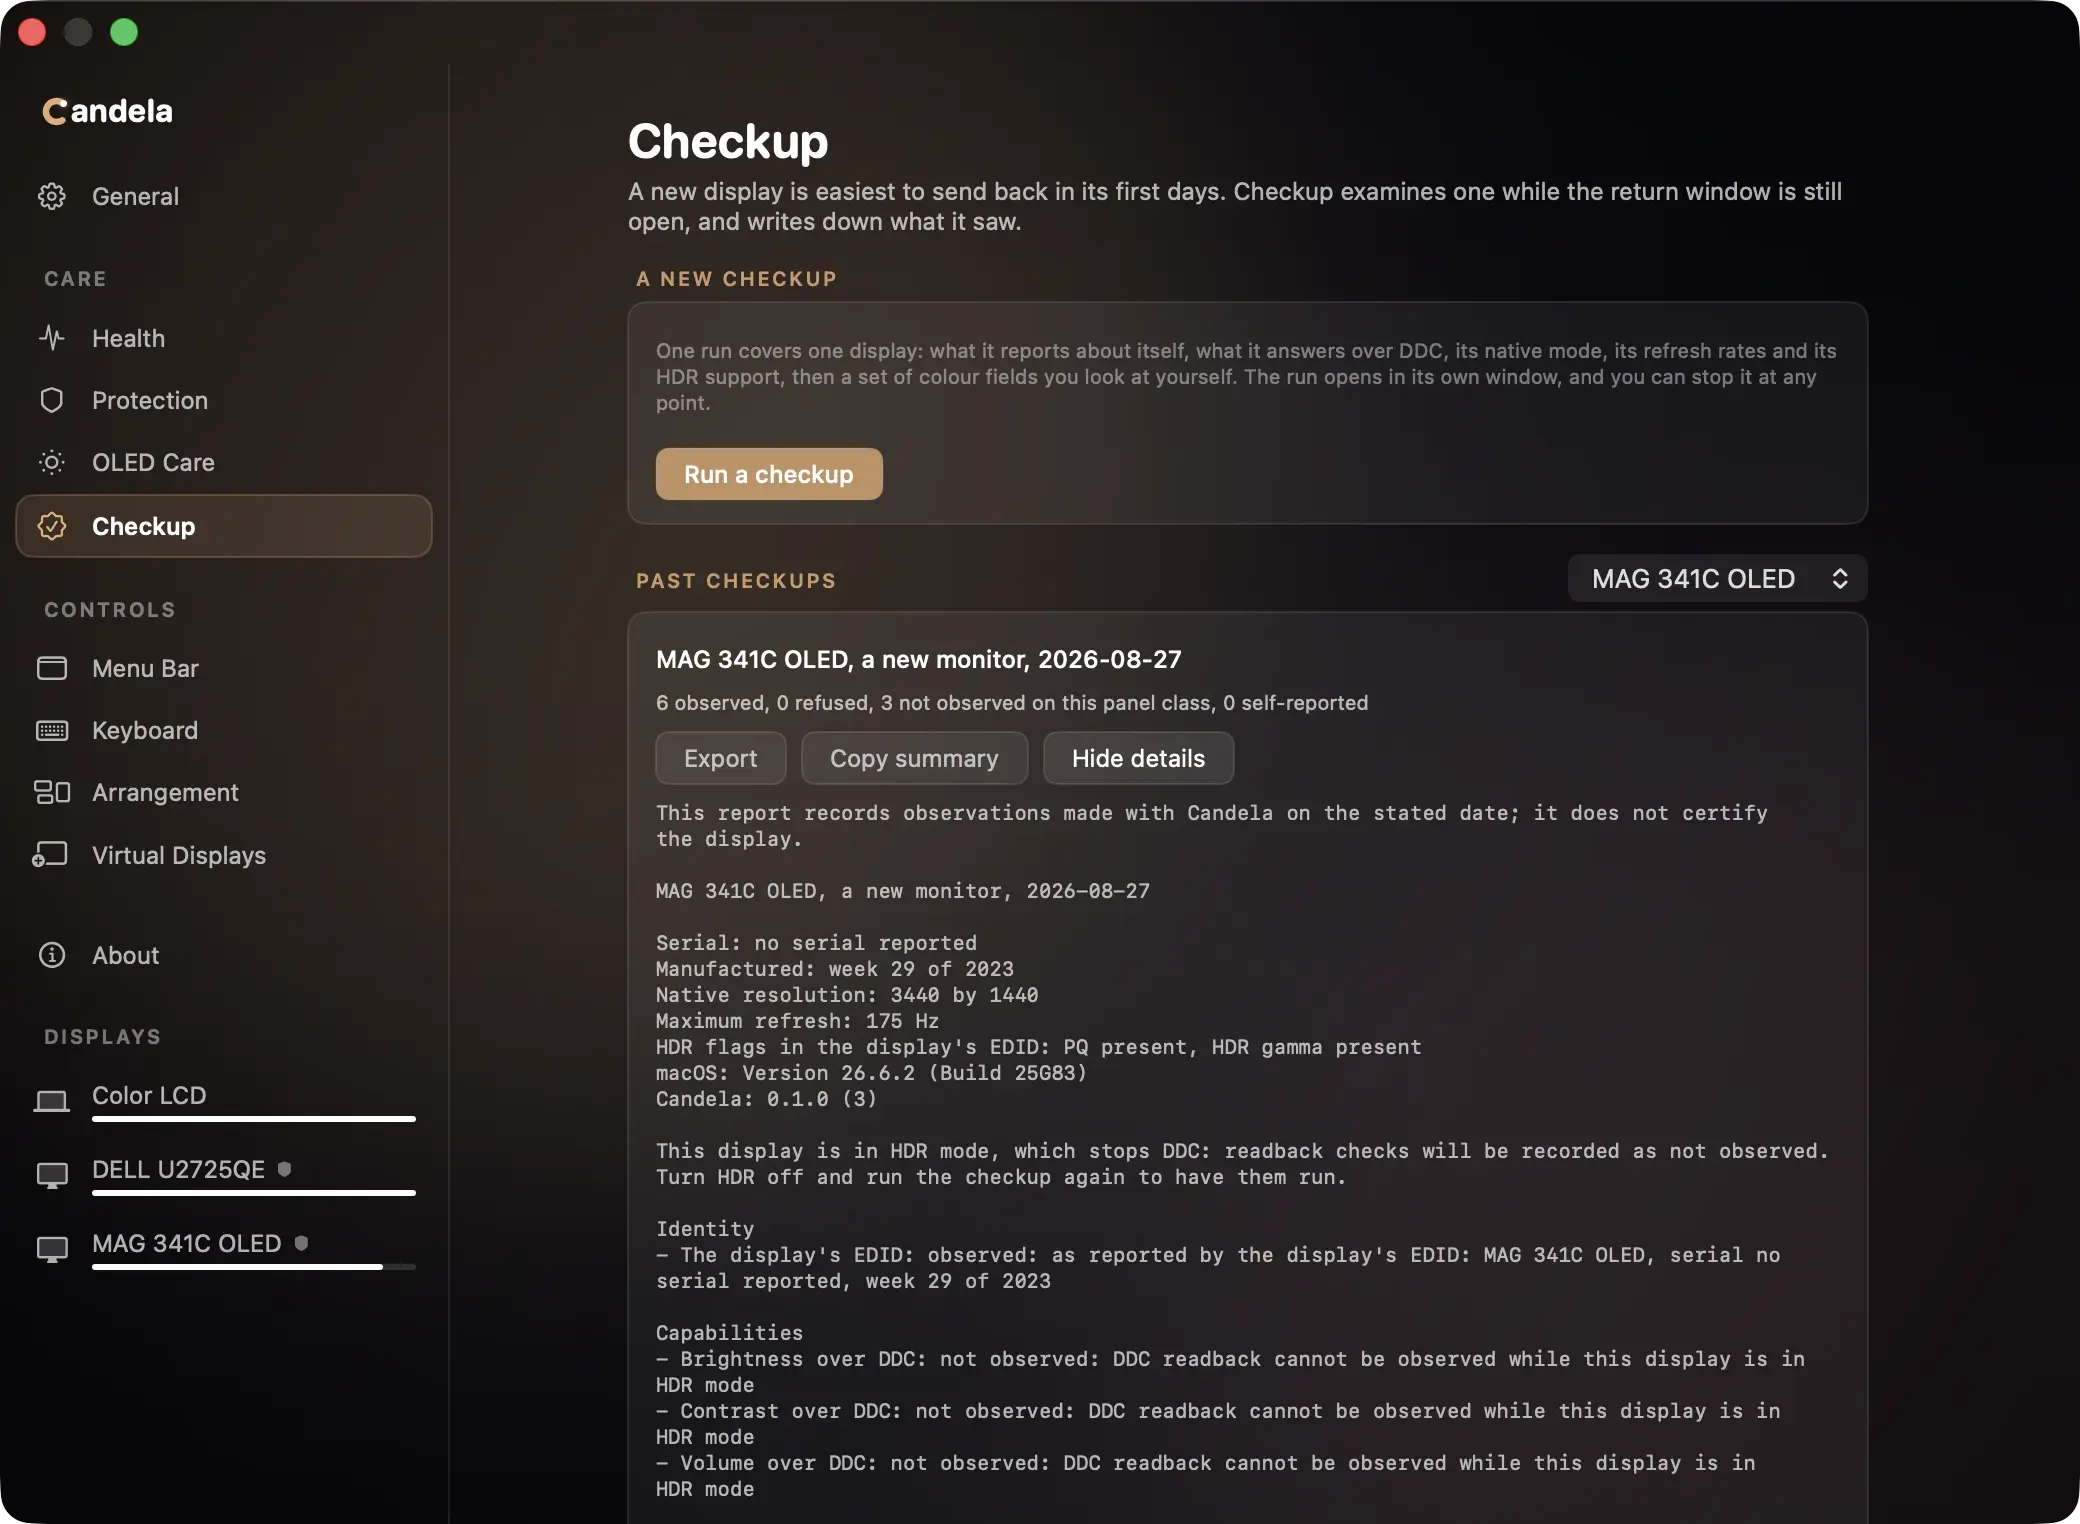
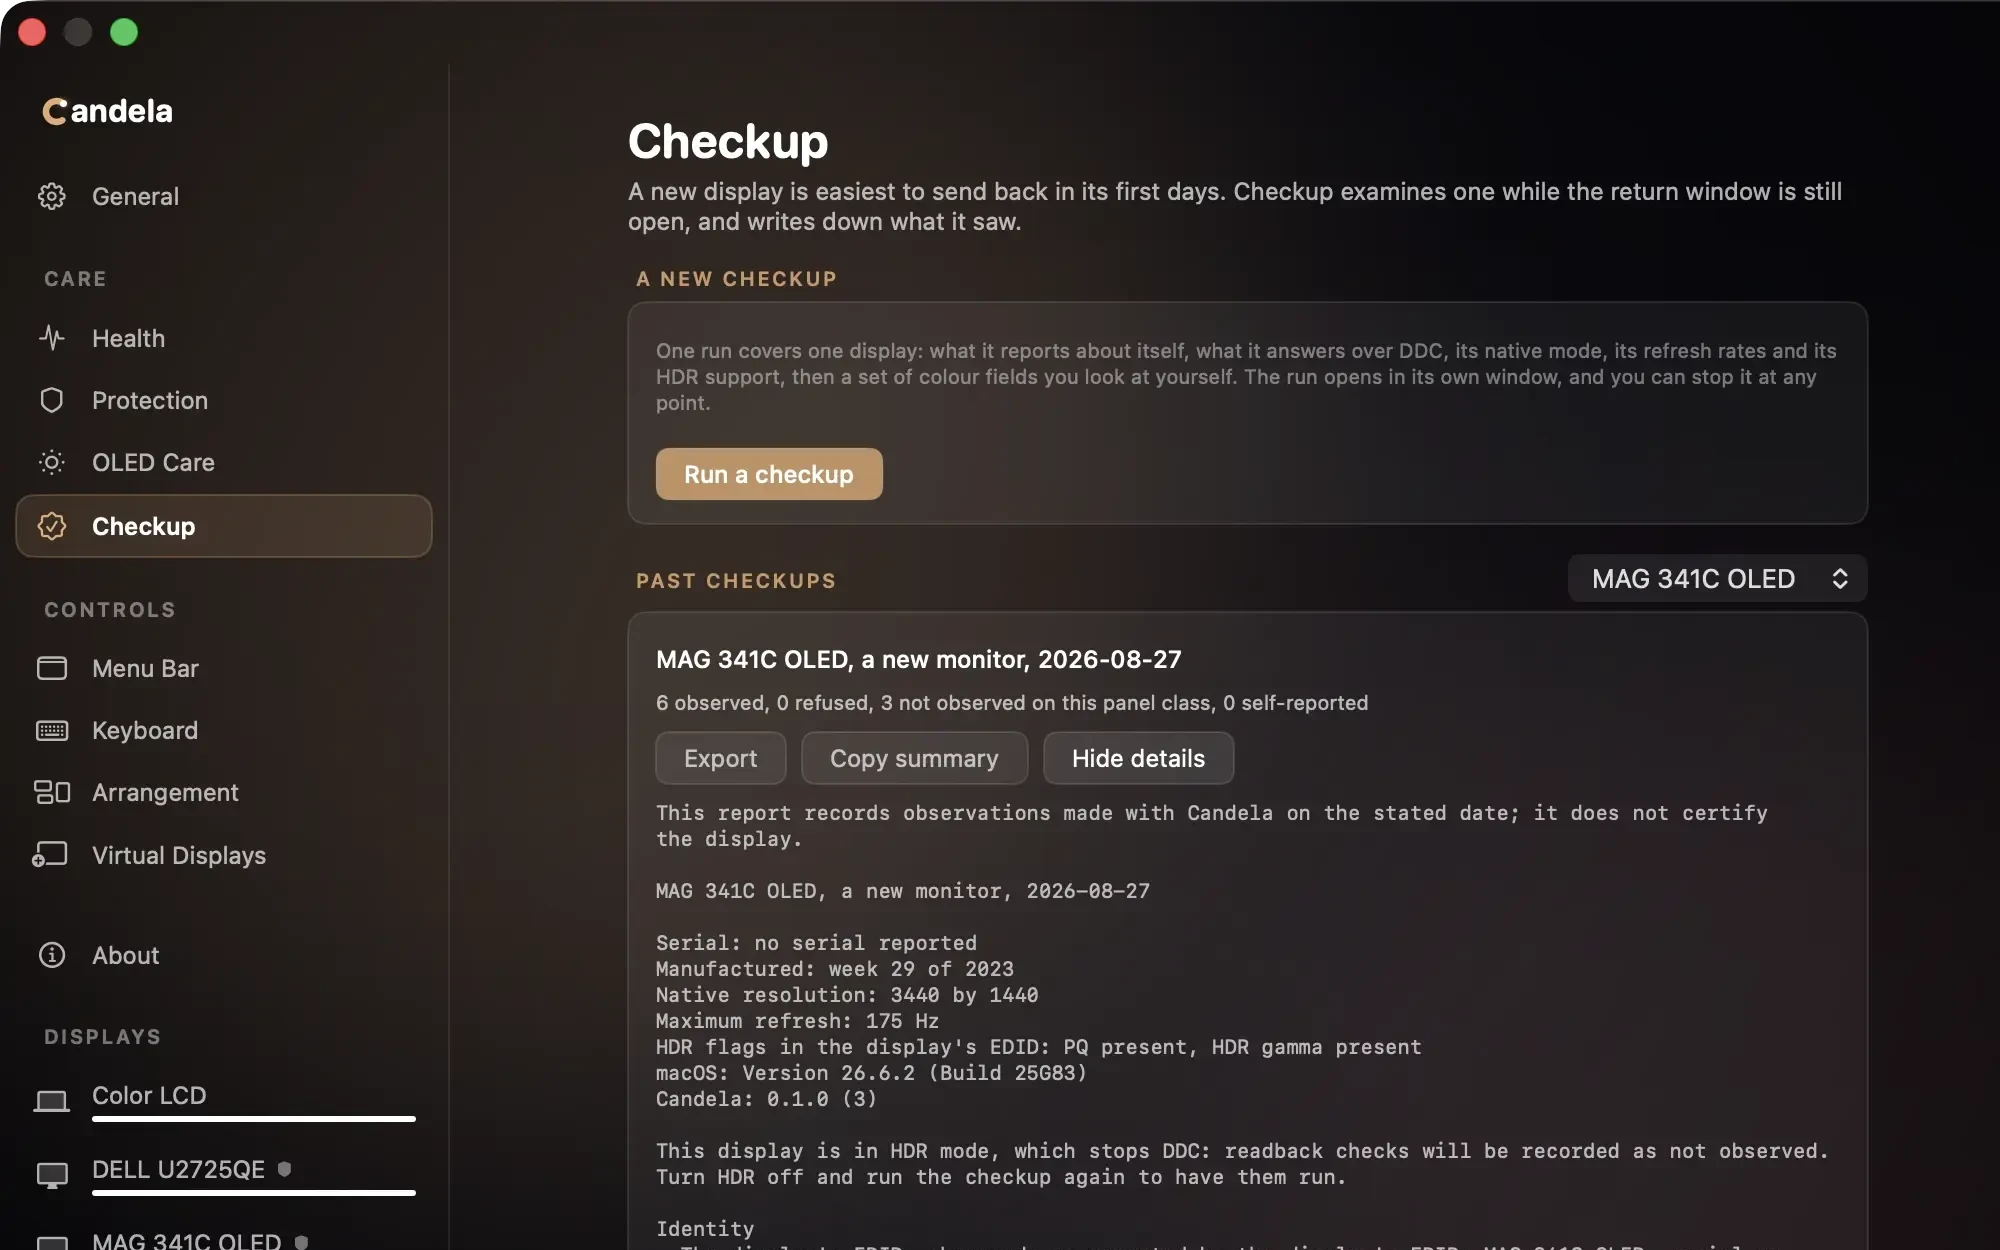
docs: a README that shows the app (#3)
App icon, name and tagline; Download, Homebrew and Visit buttons drawn for
the repo; a four-surface hero over a macOS desktop; the four pillars in a
grid with 16:10 loops and captures and the text lined up beneath; the setup
flow on its own strip; shorter Install, Requirements, private-API and
Credits sections. THIRD-PARTY-LICENSES loses its DDC.swift provenance note.

diff --git a/README.md b/README.md
@@ -11,23 +11,22 @@
 </p>
 
 <p align="center">
-  <a href="https://github.com/Rydersel/Candela/releases/latest"><img src="https://img.shields.io/github/v/release/Rydersel/Candela?label=release&color=1f9e89" alt="Latest release"></a>
-  <img src="https://img.shields.io/badge/macOS-14%2B-111" alt="macOS 14 or later">
-  <img src="https://img.shields.io/badge/Apple%20silicon-arm64-111" alt="Apple silicon">
-  <img src="https://img.shields.io/badge/signed%20%26%20notarized-Developer%20ID-111" alt="Signed and notarized">
-  <a href="LICENSE"><img src="https://img.shields.io/github/license/Rydersel/Candela?color=1f9e89" alt="MIT license"></a>
+  <a href="https://github.com/Rydersel/Candela/releases/latest"><img src=".github/assets/download-macos.png" height="45" alt="Download Candela for macOS"></a>
+  &nbsp;
+  <a href="#install"><img src=".github/assets/install-homebrew.png" height="45" alt="Install with Homebrew"></a>
+  &nbsp;
+  <a href="https://candela.fyi"><img src=".github/assets/visit-site.png" height="45" alt="Visit candela.fyi"></a>
 </p>
 
 <p align="center">
-  <a href="https://github.com/Rydersel/Candela/releases/latest"><b>Download for macOS</b></a>
-  &nbsp;&middot;&nbsp;
-  <code>brew install --cask rydersel/tap/candela</code>
-  &nbsp;&middot;&nbsp;
-  <a href="https://candela.fyi">candela.fyi</a>
+  <img src="https://img.shields.io/badge/macOS-14%2B-0a0a0c" alt="macOS 14 or later">
+  <img src="https://img.shields.io/badge/Apple%20silicon-arm64-0a0a0c" alt="Apple silicon">
+  <img src="https://img.shields.io/badge/signed%20%26%20notarized-Developer%20ID-0a0a0c" alt="Signed and notarized">
+  <a href="LICENSE"><img src="https://img.shields.io/badge/license-MIT-e8a13a" alt="MIT license"></a>
 </p>
 
 <p align="center">
-  <img src=".github/assets/tour.gif" width="880" alt="A tour of Candela's settings window">
+  <img src=".github/assets/hero.webp" width="880" alt="Candela: a display's page, the Health pane, the heat map, and the menu-bar controls over a macOS desktop">
 </p>
 
 Other display apps adjust settings in the moment. Candela stewards your display over its lifetime, and does the settings too. Your monitor is probably the most expensive thing on your desk that nothing takes care of: macOS forgets its settings, offers no brightness slider for it, and has no idea how many hours its panel has been lit. Candela is a menu-bar app that keeps those records, protects the panel from wear, and fills in the controls.
@@ -39,27 +38,35 @@ Other display apps adjust settings in the moment. Candela stewards your display 
     <td width="50%" valign="top">
       <img src=".github/assets/health.gif" alt="The Health pane and its exposure heat map">
       <h3>Health</h3>
-      A record of where an enrolled panel has been lit, kept in the panel's own geometry as a coarse exposure grid, so nothing on your screen is stored. Turn on measurement and the map fills in from real screen readings. Panel hours and per-app attribution come with it, and the whole record exports as one integrity-checked file.
+      A map of where an enrolled panel has been lit, kept as a coarse grid so nothing on your screen is stored. Turn on measurement and it fills in from real readings. Panel hours and per-app time come with it, and the whole record exports as one integrity-checked file.
     </td>
     <td width="50%" valign="top">
-      <img src=".github/assets/setup.gif" alt="Guided setup recommending a sharper size for a display">
+      <img src=".github/assets/protection.webp" alt="OLED Care: an enrolled panel with its exposure thumbnail, and the menu bar and Dock auto-hide switches">
       <h3>Protection</h3>
-      One-click auto-hide for the menu bar and the Dock, dimming when you step away and while the Mac is locked, and an optional static-region dim that eases down bright, unchanged regions while active content stays at full brightness. Display settings survive replugs and reboots.
+      One-click auto-hide for the menu bar and Dock, dimming when you step away or lock the Mac, and an optional static-region dim that eases down bright, unchanged areas while live content stays at full brightness. Display settings survive replugs and reboots.
     </td>
   </tr>
   <tr>
     <td width="50%" valign="top">
       <img src=".github/assets/checkup.webp" alt="A checkup report for a new monitor">
       <h3>Checkup</h3>
-      A guided verification of a new, used or rechecked monitor while the return window is still open. Every claim carries a grade: observed, refused, not observed, or self-reported. The by-eye tests include a disclosed sensitivity control, and a run whose control goes unfound records as inconclusive. It records observations; it does not certify panels.
+      A guided verification of a new, used or rechecked monitor while the return window is open. Every claim carries a grade (observed, refused, not observed, self-reported), the by-eye tests carry a disclosed sensitivity control, and a missed control records as inconclusive. It records observations; it does not certify.
     </td>
     <td width="50%" valign="top">
       <img src=".github/assets/controls.gif" alt="Brightness and volume sliders for every display in the menu bar">
       <h3>Controls</h3>
-      Brightness, contrast and volume for external displays over DDC/CI, from the menu bar, your keyboard's keys, and a HUD. Software dimming below the hardware floor, an HDR toggle, every resolution the panel can show including HiDPI sizes macOS hides, plus arrangement, mirroring, rotation, virtual displays and a guided first-run setup.
+      Brightness, contrast and volume for external displays over DDC/CI, from the menu bar, media keys and a HUD. Software dimming below the hardware floor, an HDR toggle, every resolution the panel can show including HiDPI sizes macOS hides, plus arrangement, mirroring, rotation and virtual displays.
     </td>
   </tr>
 </table>
+
+<br>
+
+<p align="center">
+  <img src=".github/assets/setup.gif" width="720" alt="Guided setup recommending a sharper size for a display">
+</p>
+
+<p align="center"><b>It configures itself to your setup.</b> On first launch Candela finds every display, asks each what it can do, and builds the controls around the answers; a sharper size is offered where the panel supports one.</p>
 
 ## Install
 
@@ -78,28 +85,9 @@ Candela checks for updates on its own and asks before installing one. Updates ar
 - **Accessibility**, only if you want the keyboard media keys to drive an external display.
 - **Screen Recording**, only if you opt into measured exposure sampling. Nothing else asks for it.
 
-DDC/CI does not work while a display is in HDR mode. Candela marks the display in the menu bar and says so on its Diagnostics page rather than failing silently.
-
-<details>
-<summary><b>What it does not do</b></summary>
-<br>
-
-Some of these are deliberate, some are waiting on hardware. Each has a reason, and the reason is what decides whether it ever changes.
-
-- **Turn your monitor off or put it in standby over DDC.** Built, tested, and cut. On one panel it worked, and twice it left the monitor unreachable until its input was switched away and back. macOS cannot tell a blanked panel from a lit one, so the app cannot know when it has gone wrong. It stays out until someone finds a recovery path.
-- **Colour calibration.** A colorimeter and a calibration workflow are a different product.
-- **Blue-light or circadian modes.** macOS already owns Night Shift and True Tone.
-- **Break reminders.** Wellness, not display care.
-- **Picture-in-picture, display streaming, or a raw VCP console.** Other apps do these already.
-- **XDR brightness unlock.** Parked, not cut: there is no XDR display in the test setup to verify it on.
-- **Importing settings from other display apps.** Candela starts fresh.
-- **Windows, Linux, or an iOS companion.**
-
-</details>
-
 ## A note on private APIs
 
-Parts of Candela rely on macOS interfaces Apple does not document: revealing and switching display modes, creating virtual displays, the menu-bar auto-hide key, and the HDR toggle among them. These are the features other tools cannot offer, and they are also the ones that can break when a new macOS ships. Candela carries a conformance check that detects that drift, and fixes land in the open. If something stops working the day after a macOS update, that is the most likely reason, and an update is the most likely fix.
+Some features (mode switching, virtual displays, the HDR toggle, menu-bar auto-hide) use macOS interfaces Apple does not document. They are what other tools cannot offer, and they can break when a new macOS ships. A built-in conformance check detects that, and fixes land in the open.
 
 ## Tested hardware
 
@@ -113,7 +101,9 @@ Every release is tested on as many different displays, connections and Macs as w
 
 ## Credits
 
-Candela is a new engine, and it is descended from [MonitorControl](https://github.com/MonitorControl/MonitorControl). Its DDC/CI transport for Apple silicon and Intel, its media-key handling, its software-dimming approach and its HDR toggle were transplanted or adapted from that project under the MIT license, and every file containing its code carries its copyright header. The file-by-file list is in [THIRD-PARTY-LICENSES.md](THIRD-PARTY-LICENSES.md). MonitorControl is the best-known open-source app in this space and its DDC code is the most widely read there is; Candela would not exist without it. Updates ship through [Sparkle](https://sparkle-project.org).
+- [MonitorControl](https://github.com/MonitorControl/MonitorControl): parts of the display-control engine, adapted under the MIT license. Details in [THIRD-PARTY-LICENSES.md](THIRD-PARTY-LICENSES.md).
+- [Sparkle](https://sparkle-project.org): in-app updates.
+- [KeyboardShortcuts](https://github.com/sindresorhus/KeyboardShortcuts): the shortcut recorder.
 
 ## License
 

diff --git a/THIRD-PARTY-LICENSES.md b/THIRD-PARTY-LICENSES.md
@@ -26,7 +26,7 @@ its code:
 | File | What came from upstream |
 |---|---|
 | `CandelaKit/Sources/CandelaKit/DDC/Arm64DDC.swift` | the Apple Silicon DDC/CI transport |
-| `CandelaKit/Sources/CandelaKit/DDC/IntelDDC.swift` | the Intel DDC/CI transport (see the note below) |
+| `CandelaKit/Sources/CandelaKit/DDC/IntelDDC.swift` | the Intel DDC/CI transport |
 | `CandelaKit/Sources/CandelaKit/HDR/MonitorPanelService.swift` | the MonitorPanel HDR toggle (`HDRControl`) |
 | `CandelaKit/Sources/CandelaKit/Brightness/BrightnessController.swift` | the combined-dimming split (attributed inline, at the function) |
 | `CandelaKit/Sources/CandelaKit/Brightness/DimmingMath.swift` | the dimming curve |
@@ -288,25 +288,3 @@ STRICT LIABILITY, OR TORT (INCLUDING NEGLIGENCE OR OTHERWISE) ARISING
 IN ANY WAY OUT OF THE USE OF THIS SOFTWARE, EVEN IF ADVISED OF THE
 POSSIBILITY OF SUCH DAMAGE.
 ```
-
----
-
-## DDC.swift, and one unresolved link in the chain
-
-<https://github.com/reitermarkus/DDC.swift>
-
-`IntelDDC.swift` carries MonitorControl's own second attribution line,
-`Adapted from IntelDDC.swift, @reitermarkus`, and Candela preserves it.
-
-Recorded plainly because an audit that quietly rounded it off would be worth
-less than no audit: **that repository publishes no license file**, so there is
-no notice to reproduce here. What Candela relies on is MonitorControl's
-position, which has been to ship this code under its own MIT since 2017 with the
-attribution intact. Candela inherits that position and changes nothing about it.
-
-The exposure is small and worth stating precisely. `IntelDDC` is the Intel
-DDC/CI path; it compiles, but nothing constructs it (`DisplayDiscovery` returns
-no Intel services, and the Intel adapter is a later milestone), so it ships as
-unreachable code. If that stops being true, or if a clean provenance is wanted
-sooner, the fix is to ask the author to add a license rather than to delete the
-attribution line.
